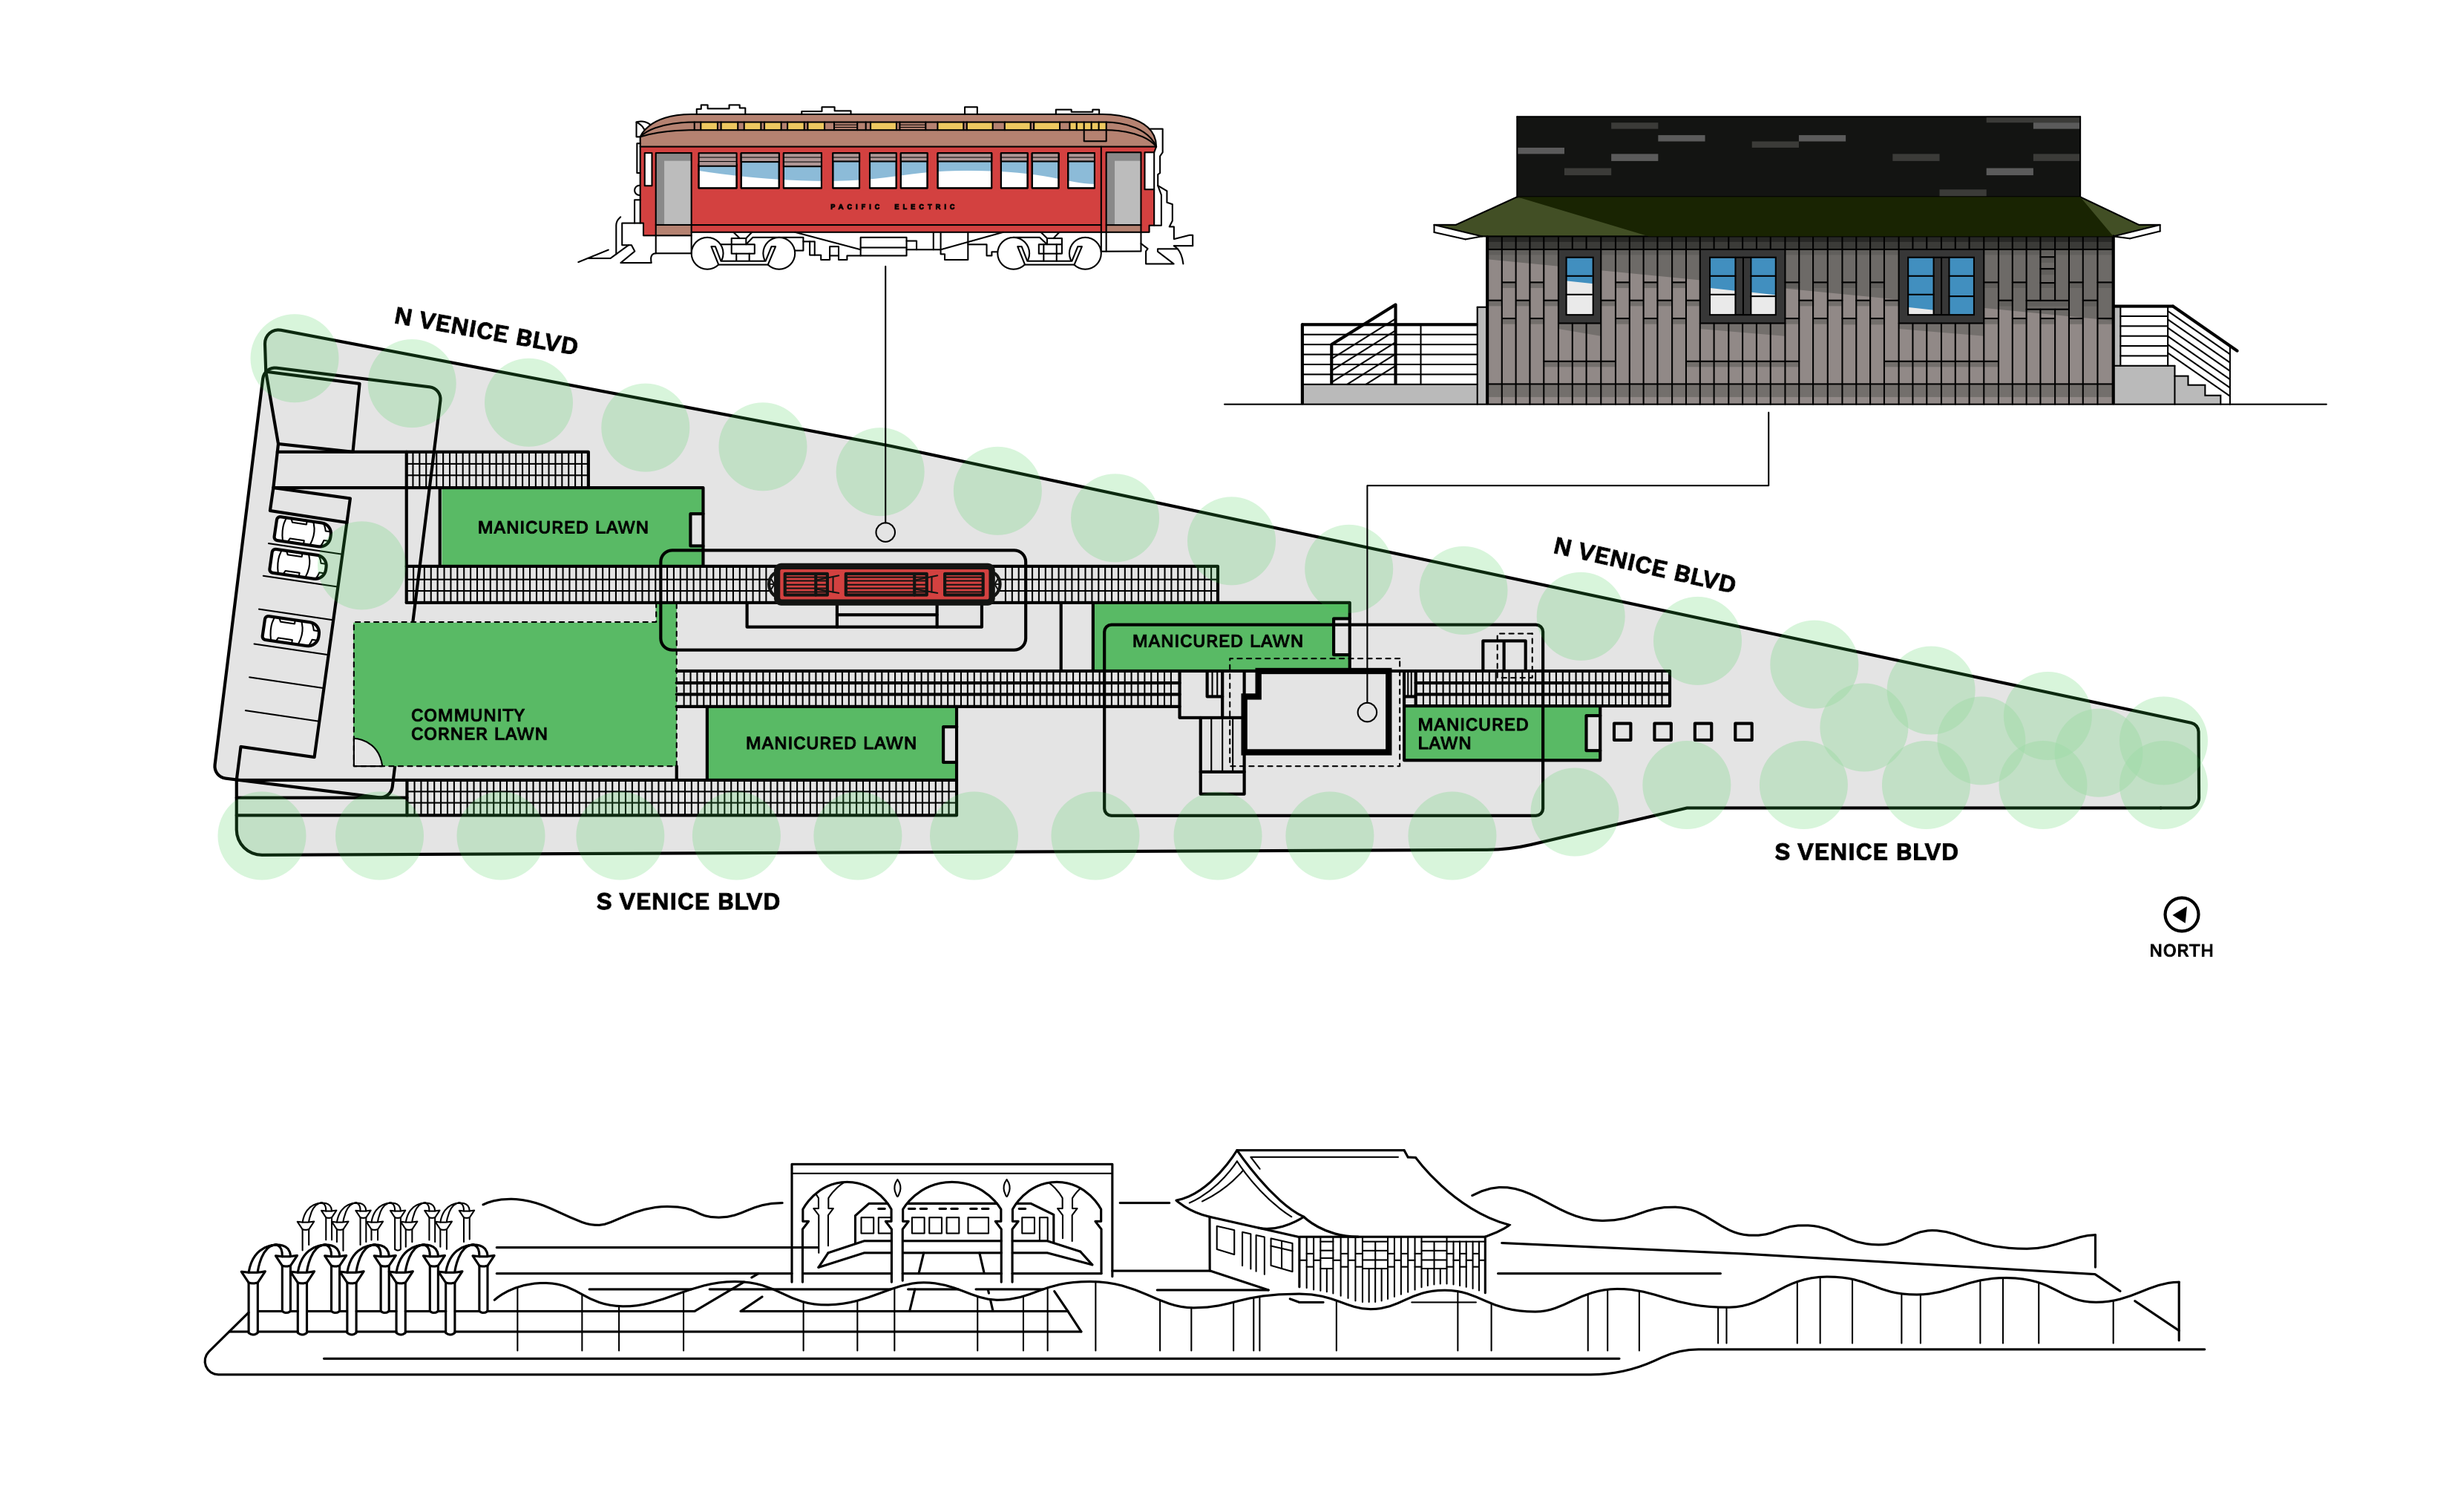
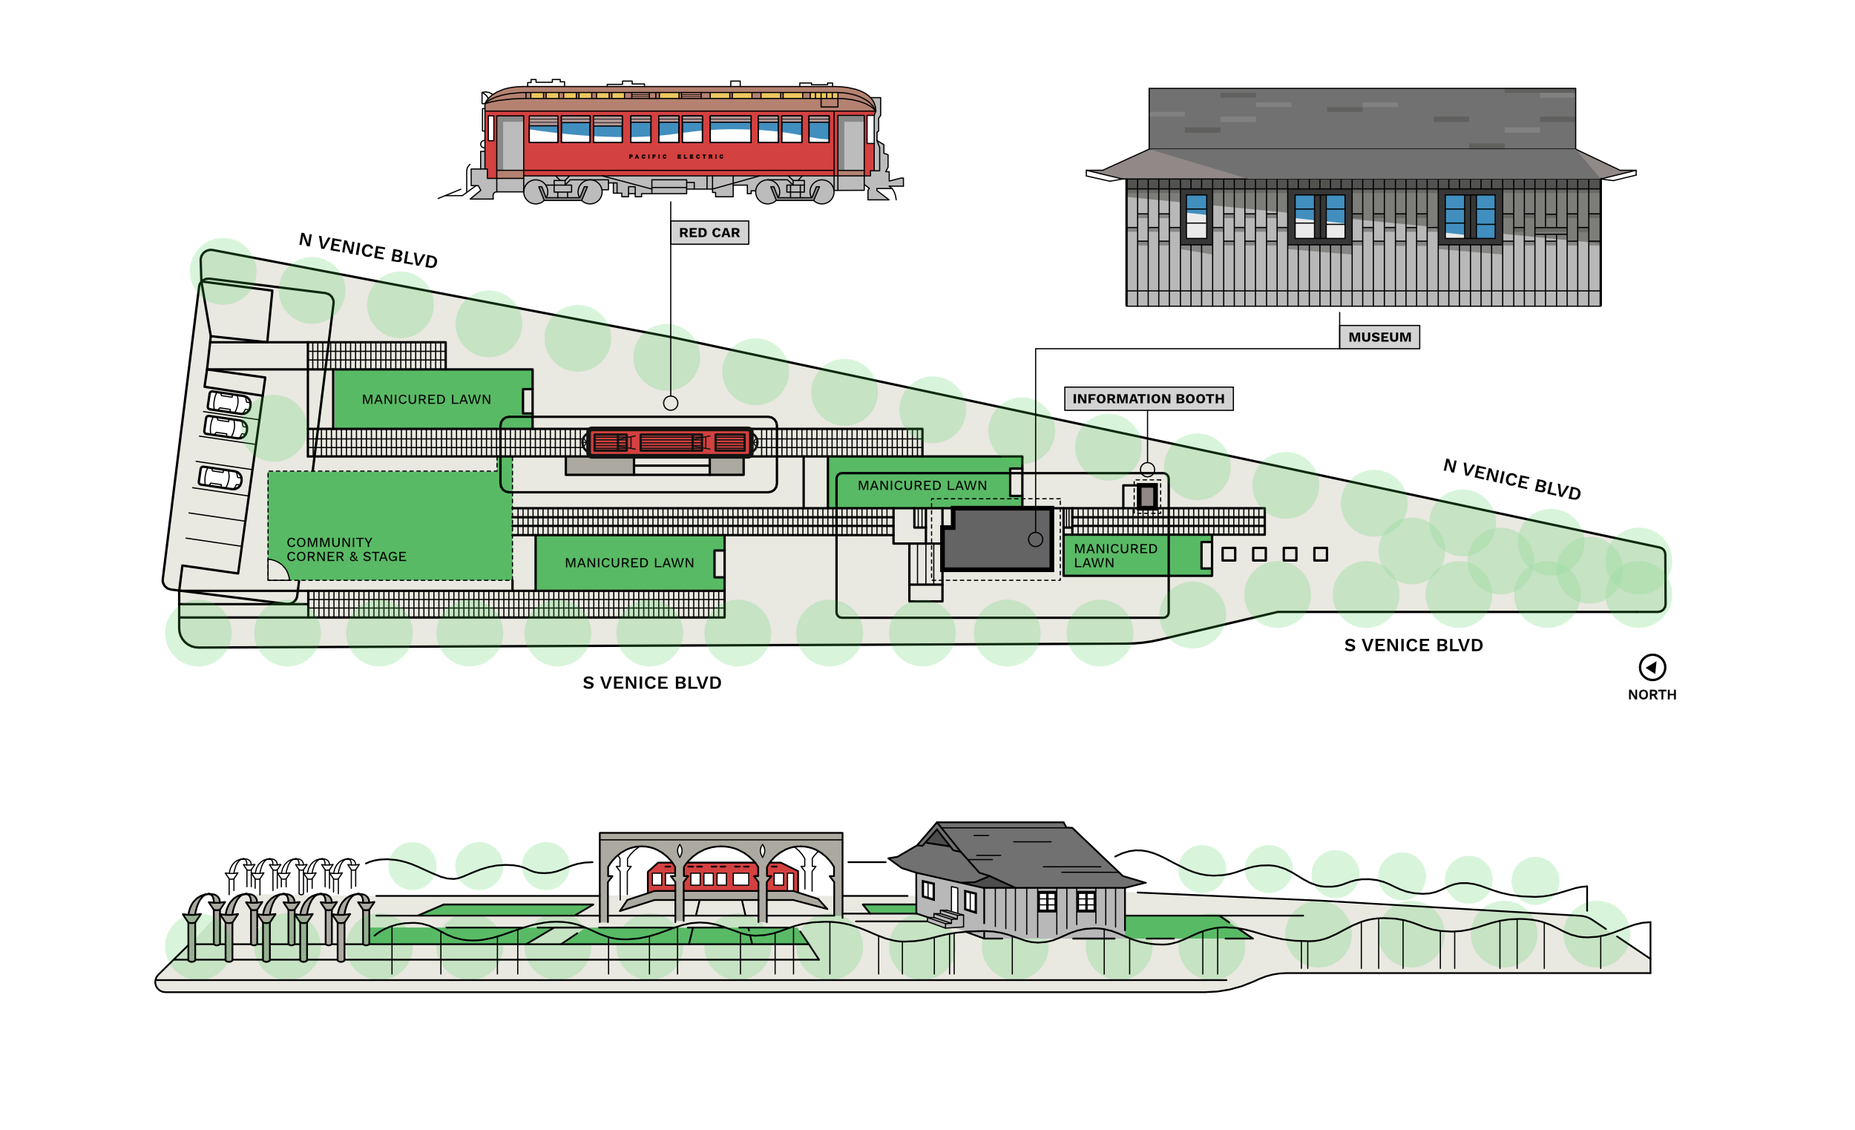
site plan update

diff --git a/partials/partial2.html b/partials/partial2.html
@@ -37,7 +37,7 @@
 			<div class="project-nav">&larr; <a href="#/view20">Previous</a> | <a href="#/view22">Next</a> &rarr;</div>
 			<h1>Design for Nonprofits</h1>
 			<p class="project-category">Branding, Information, Illustration</p>
-			<p class="project-sub-title"><em>— Ongoing Volunteer Projects on Catchafire</em></p>
+			<p class="project-sub-title">— Ongoing Volunteer Projects on Catchafire</p>
 		</div>
 
 		<p><img ng-src='img/catchafire/catchafire-header-1.png' width='100%' /></p>
@@ -115,7 +115,7 @@
 <br>
 
 		<h3 class="proj-sm-col"><span>CASE 3 —</span>Venice Heritage Museum</h3>
-		<p class="proj-sm-col">In progress.</p>
+		<p class="proj-sm-col">What the client needs - A high-resolution digital version of an illustration / site plan that can be used across multiple channels (web, print, and/or merchandising). The old brochure that contains all these plans are in different visual styles, which is one of the main issues of the client.</p>
 
 		<p class="full-width-image"><img ng-src='img/catchafire/Heritage_Museum_Plan_1.png' width='100%' /></p>	
 
